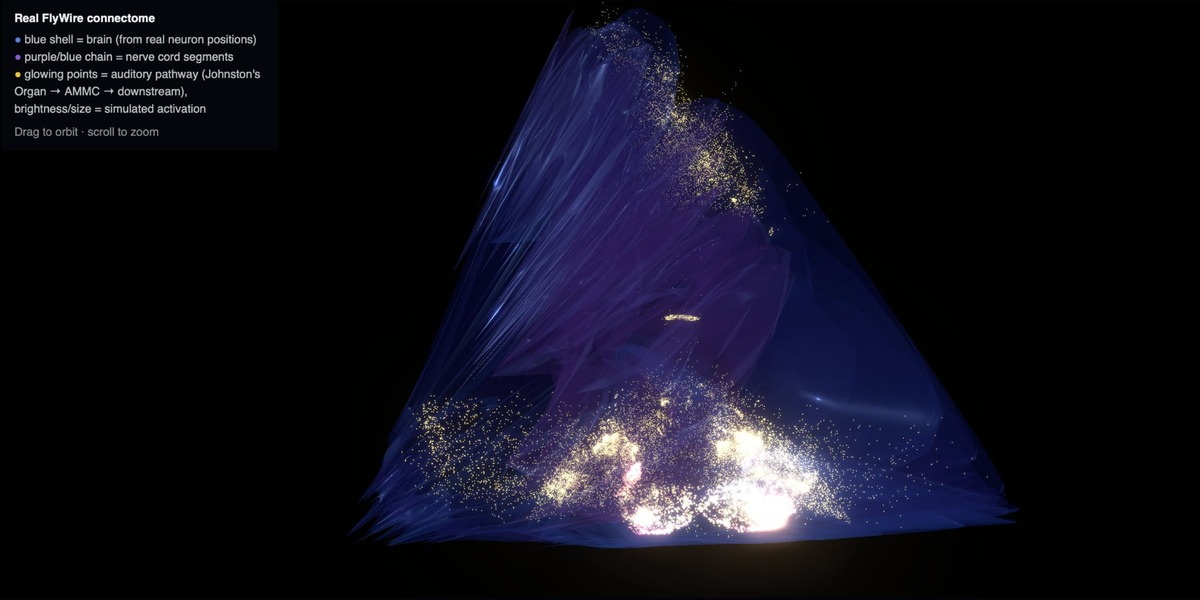
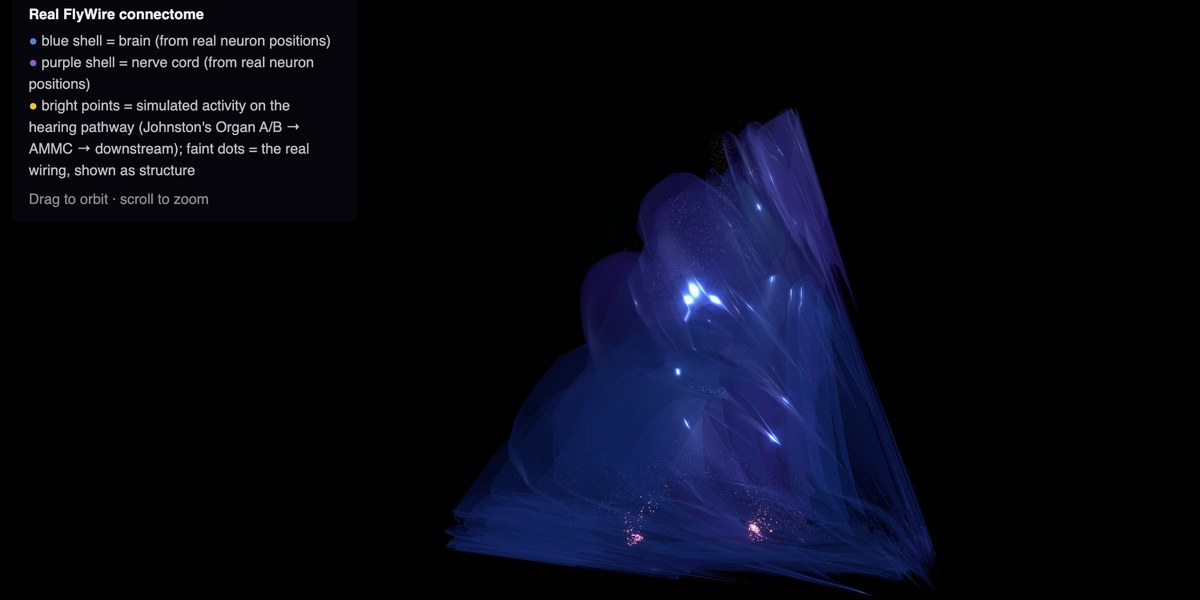
Re-capture README screenshots for the hearing-only build; replace video with GIF
All five stills recaptured from the live app at a loud passage of the
Chopin demo, matching the old 1200x600 framing. The old user-attachments
video showed the smell-heavy glow and can only be replaced via GitHub's
web editor, so it is swapped for a committed GIF (scene-demo.gif).

diff --git a/README.md b/README.md
@@ -21,25 +21,25 @@ The one part that is not science is the bridge from sound to synapse. No dataset
 </p>
 
 <p align="center">
-  <img src="screenshots/scene-overview.jpg" width="90%" alt="Full connectome scene, glowing auditory pathway activation">
+  <img src="screenshots/scene-overview.jpg" width="90%" alt="Brain shell with the two Johnston's Organ / AMMC clusters lit by music, faint wiring dots across the brain">
 </p>
 
 <table align="center">
   <tr>
-    <td><img src="screenshots/scene-closeup-1.jpg" width="100%" alt="Close-up of activated neuron clusters, brain shell"></td>
-    <td><img src="screenshots/scene-closeup-2.jpg" width="100%" alt="Close-up of activated neuron clusters, alternate angle"></td>
+    <td><img src="screenshots/scene-closeup-1.jpg" width="100%" alt="Close-up of the active hearing clusters from a side angle"></td>
+    <td><img src="screenshots/scene-closeup-2.jpg" width="100%" alt="Close-up of both hearing clusters below the brain's midline"></td>
   </tr>
 </table>
 
 <table align="center">
   <tr>
-    <td><img src="screenshots/scene-wide-1.jpg" width="100%" alt="Wide view of the brain and nerve cord shell, glowing activation"></td>
-    <td><img src="screenshots/scene-wide-2.jpg" width="100%" alt="Wide view from a lower angle, brain and nerve cord shell"></td>
+    <td><img src="screenshots/scene-wide-1.jpg" width="100%" alt="Wide view of the brain and nerve cord, activity near the ears, wiring visible as faint dots"></td>
+    <td><img src="screenshots/scene-wide-2.jpg" width="100%" alt="Convex hull shell view from a lower angle"></td>
   </tr>
 </table>
 
 <p align="center">
-  <video src="https://github.com/user-attachments/assets/9936f52c-4505-4f35-9957-4152a2787bd8" controls width="90%"></video>
+  <img src="screenshots/scene-demo.gif" width="90%" alt="Animated: the hearing pathway responding to the Chopin demo as the camera orbits">
 </p>
 
 ## What's real vs. speculative
